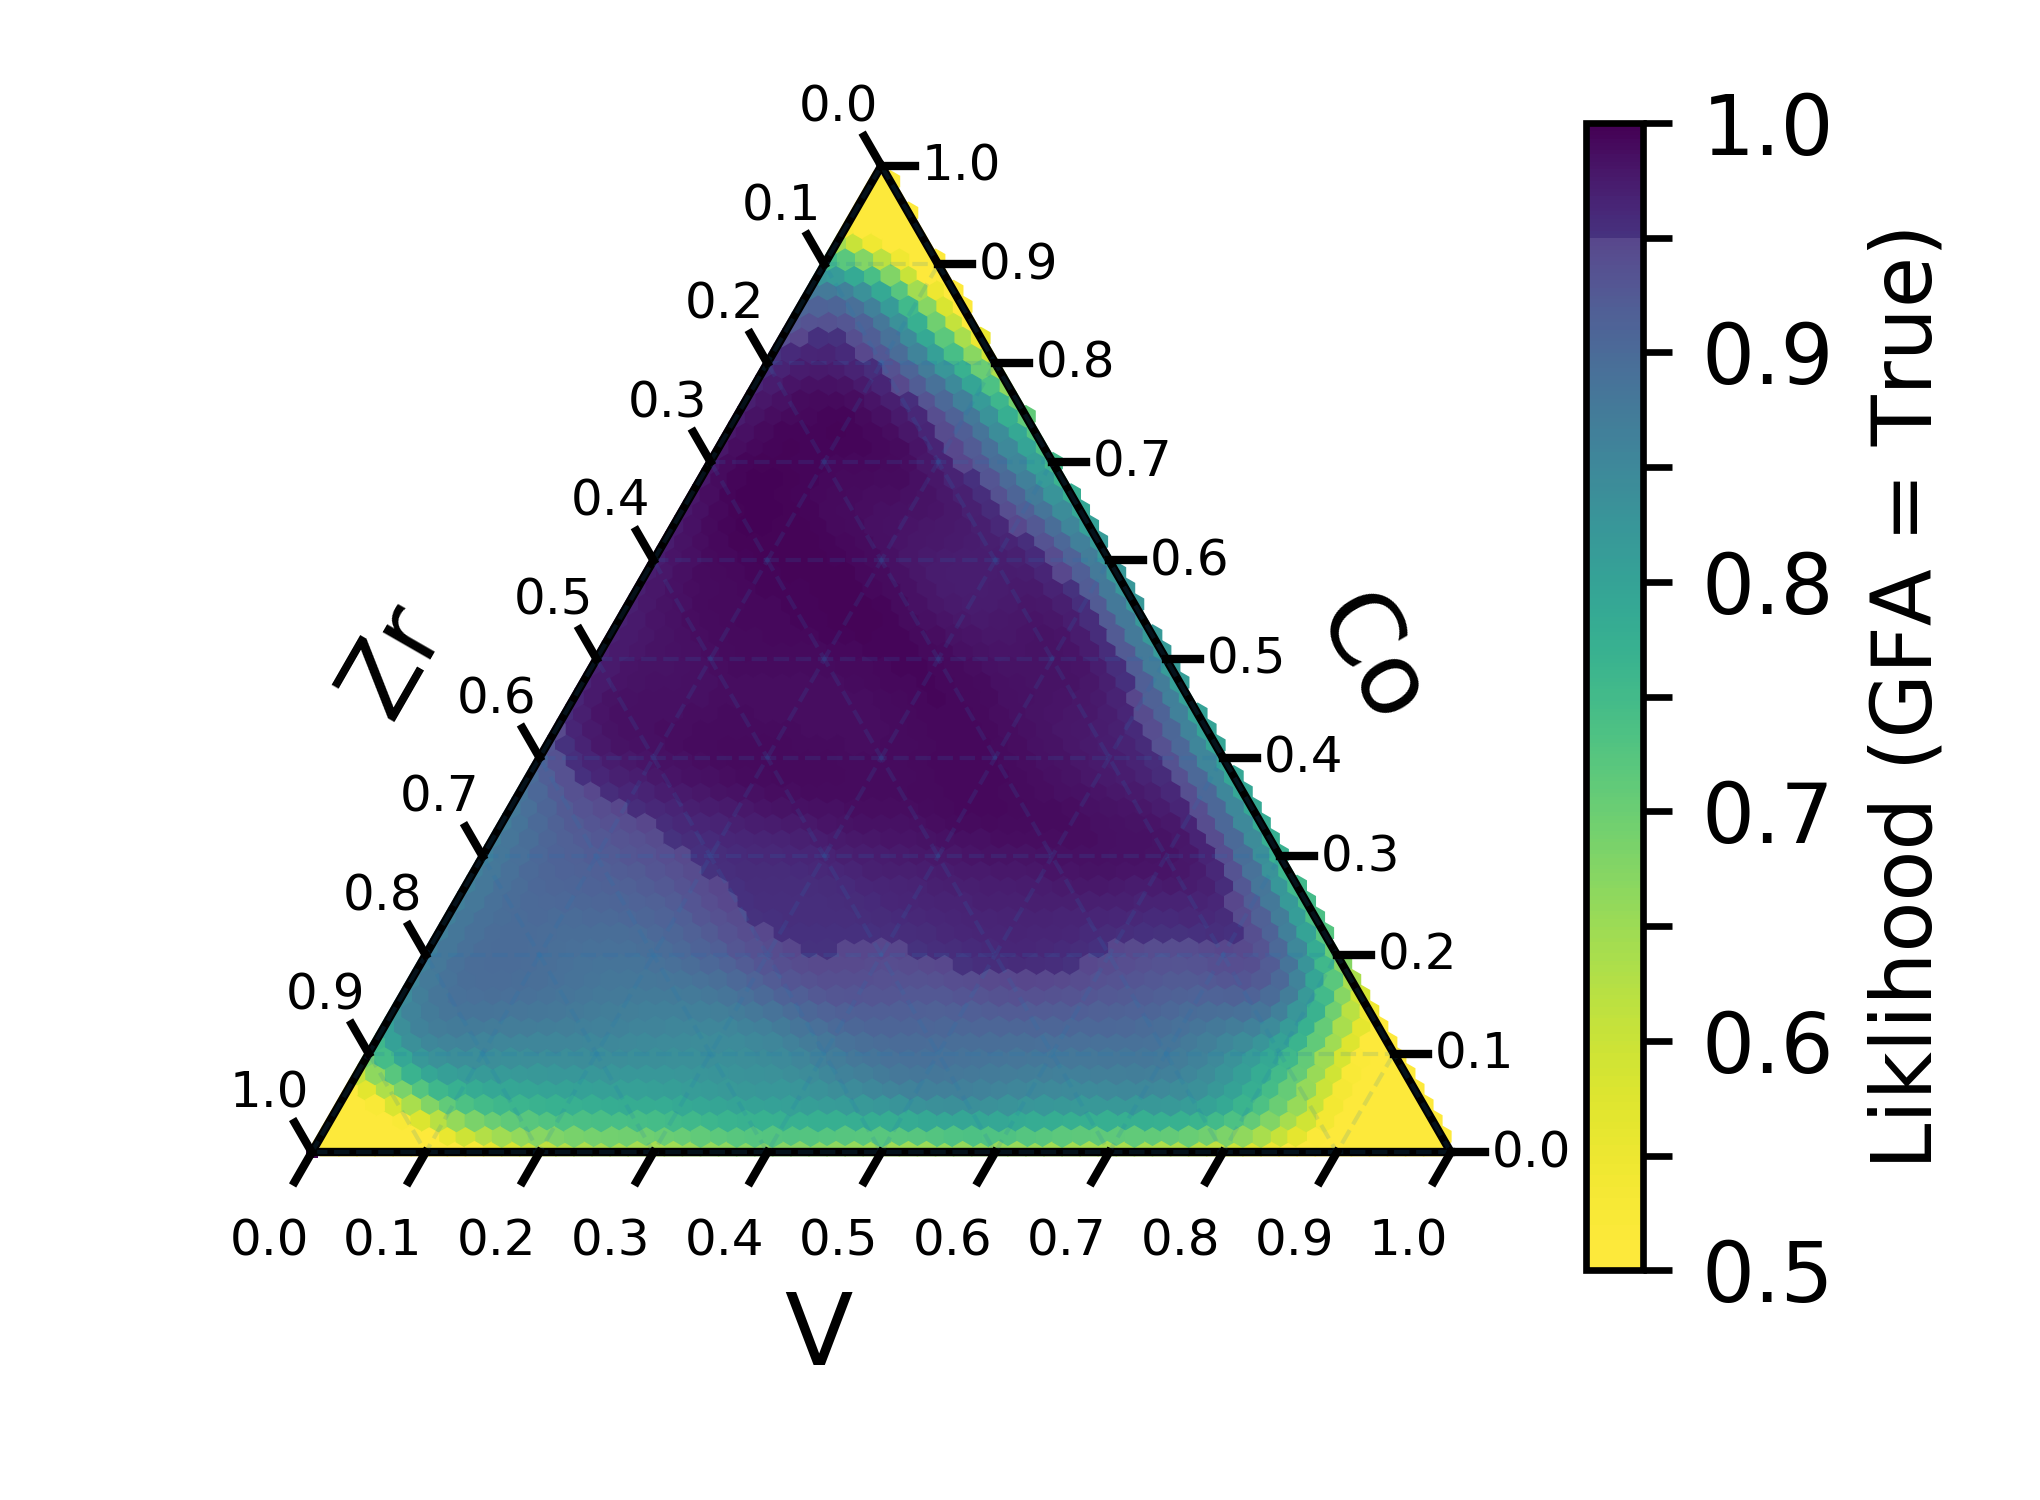
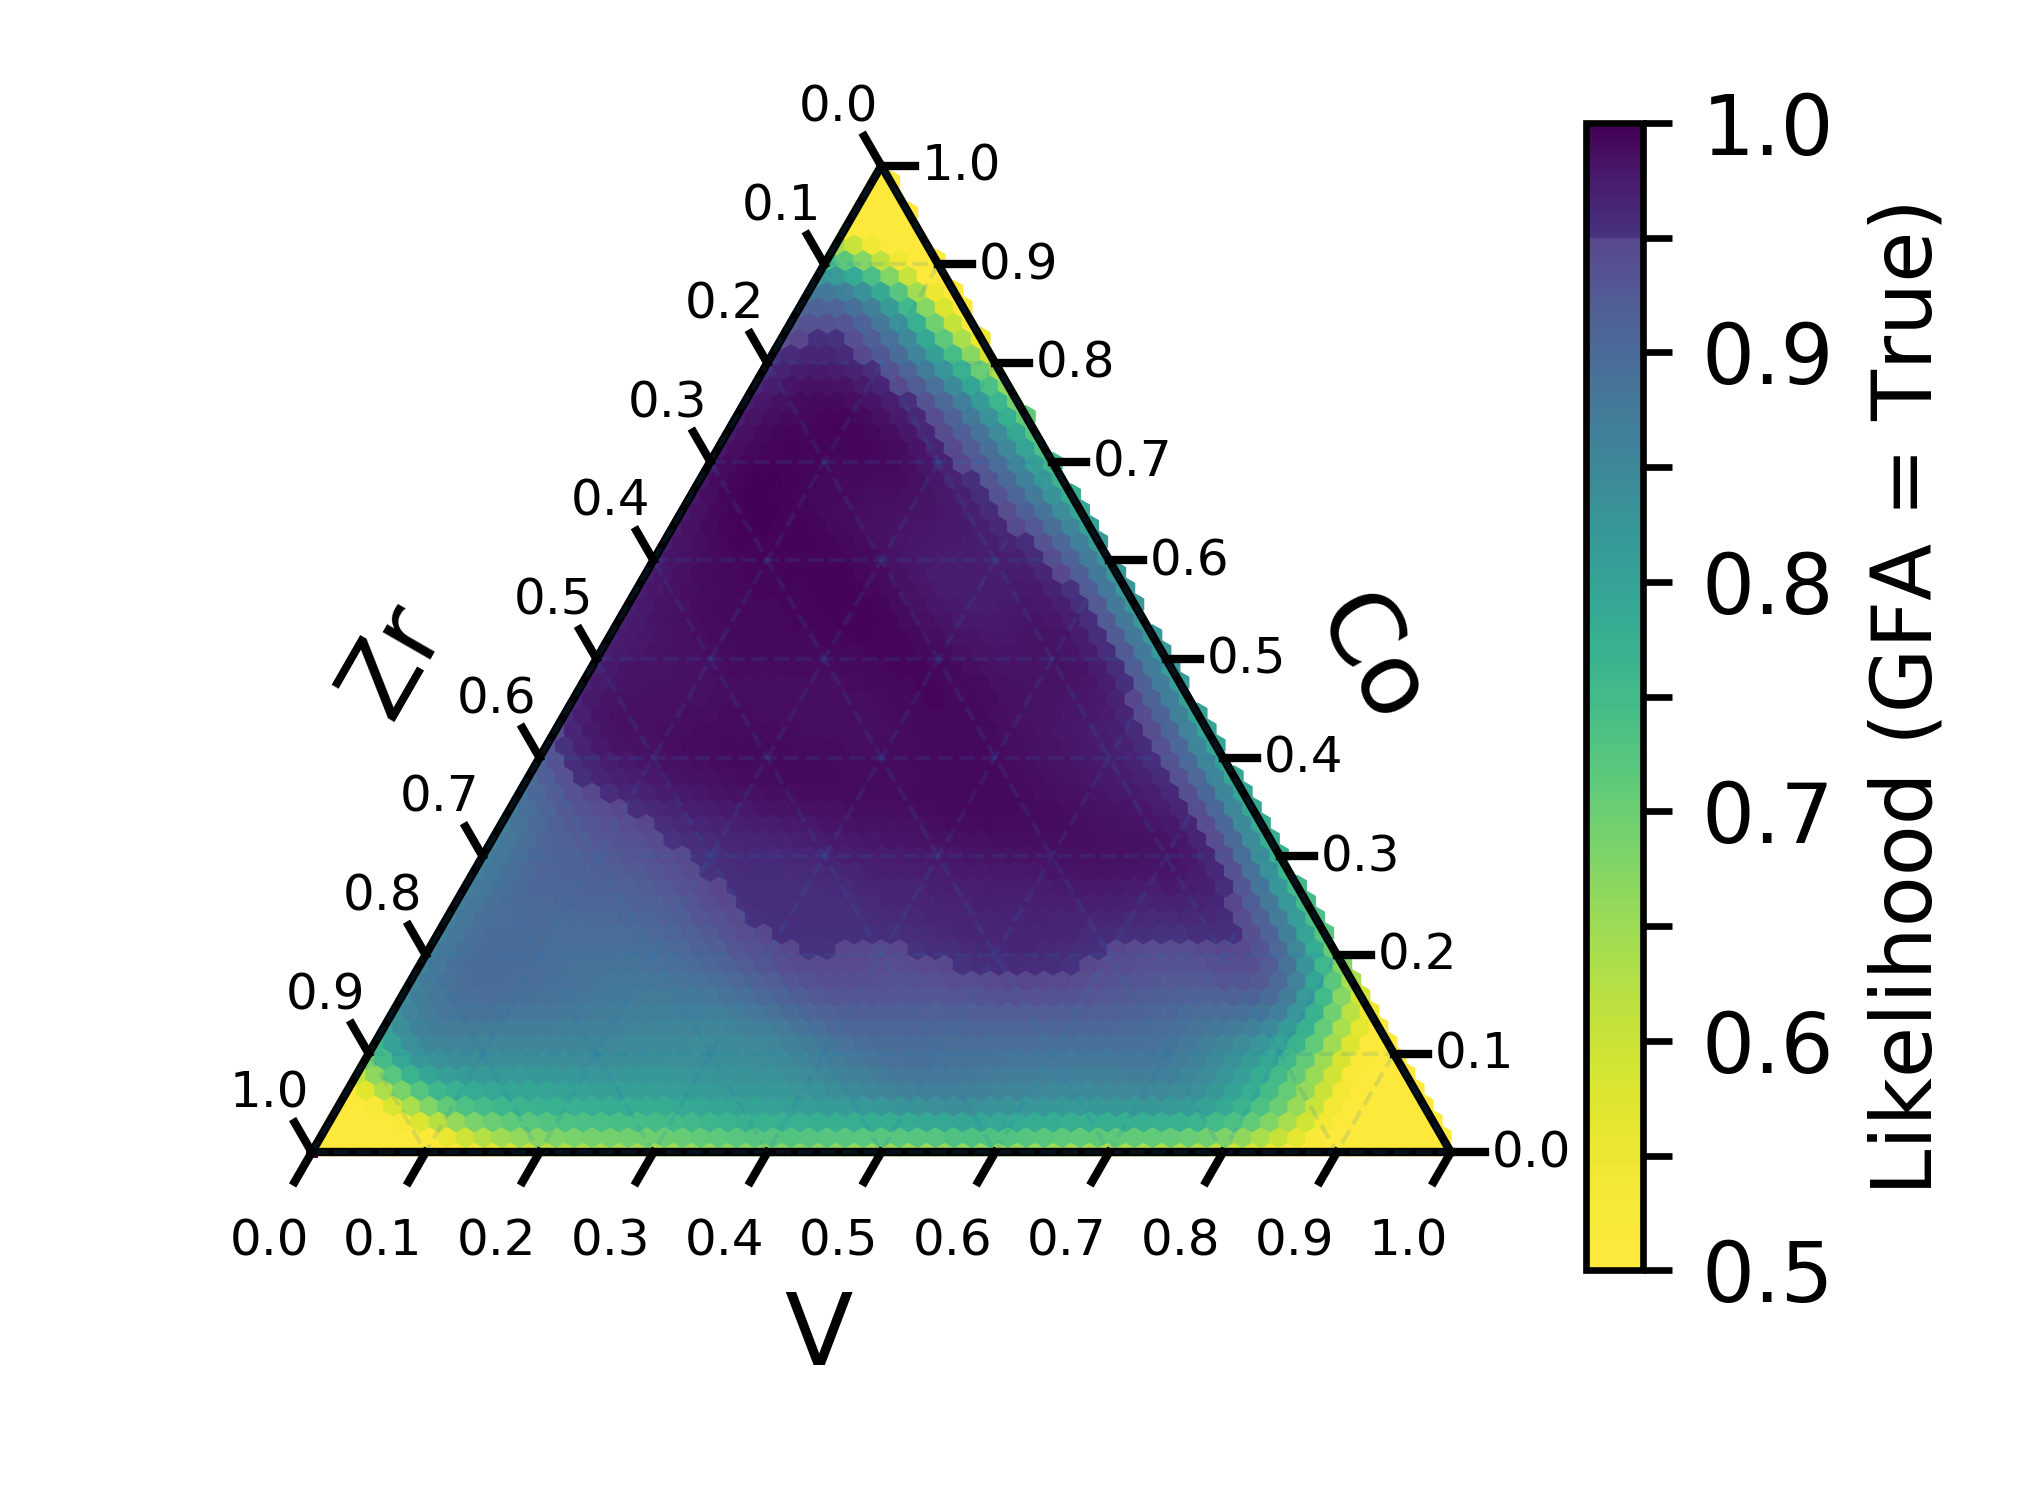
Fixed spelling error

Changed region(s): [[0.8956, 0.1227, 0.9574, 0.7973]]

diff --git a/machine-learning/figures/figure5a.py b/machine-learning/figures/figure5a.py
@@ -36,4 +36,4 @@ probability = data['probability']
 ternary_data = interpolate_probabilities(Fe, Nb, Ti, probability)
 interpolation_ternary(ternary_data, tertitle='',  labelNames=('Fe', 'Nb', 'Ti'), scale=100,
                        sv=True, svpth=save_path, svflnm='Figure5a.png',
-                       cbl='Liklihood (GFA = True)', vmin = 0.5, vmax = 1, cmap=make_cmap(), cb=True, style='h')
+                       cbl='Likelihood (GFA = True)', vmin = 0.5, vmax = 1, cmap=make_cmap(), cb=True, style='h')

diff --git a/machine-learning/figures/figure5b.py b/machine-learning/figures/figure5b.py
@@ -33,4 +33,4 @@ probability = data['probability']
 ternary_data = interpolate_probabilities(Fe, Nb, Ti, probability)
 interpolation_ternary(ternary_data, tertitle='',  labelNames=('Fe', 'Nb', 'Ti'), scale=100,
                        sv=True, svpth=save_path, svflnm='Figure5b.png',
-                       cbl='Liklihood (GFA = True)', vmin = 0.5, vmax = 1, cmap=make_cmap(), cb=True, style='h')
+                       cbl='Likelihood (GFA = True)', vmin = 0.5, vmax = 1, cmap=make_cmap(), cb=True, style='h')

diff --git a/machine-learning/figures/figure2c1.py b/machine-learning/figures/figure2c1.py
@@ -34,4 +34,4 @@ probability = data['probability']
 ternary_data = interpolate_probabilities(Co, V, Zr, probability)
 interpolation_ternary(ternary_data, tertitle='',  labelNames=('Co', 'V', 'Zr'), scale=100,
                        sv=True, svpth=save_path, svflnm='Figure2c1.png',
-                       cbl='Liklihood (GFA = True)', vmin = 0.5, vmax = 1, cmap=make_cmap(), cb=True, style='h')
+                       cbl='Likelihood (GFA = True)', vmin = 0.5, vmax = 1, cmap=make_cmap(), cb=True, style='h')

diff --git a/machine-learning/figures/figure4b.py b/machine-learning/figures/figure4b.py
@@ -36,4 +36,4 @@ probability = data['probability']
 ternary_data = interpolate_probabilities(Co, V, Zr, probability)
 interpolation_ternary(ternary_data, tertitle='',  labelNames=('Co', 'V', 'Zr'), scale=100,
                        sv=True, svpth=save_path, svflnm='Figure4b.png',
-                       cbl='Liklihood (GFA = True)', vmin = 0.5, vmax = 1, cmap=make_cmap(), cb=True, style='h')
+                       cbl='Likelihood (GFA = True)', vmin = 0.5, vmax = 1, cmap=make_cmap(), cb=True, style='h')

diff --git a/machine-learning/figures/figure4c.py b/machine-learning/figures/figure4c.py
@@ -36,4 +36,4 @@ probability = data['probability']
 ternary_data = interpolate_probabilities(Co, V, Zr, probability)
 interpolation_ternary(ternary_data, tertitle='',  labelNames=('Co', 'V', 'Zr'), scale=100,
                        sv=True, svpth=save_path, svflnm='Figure4c.png',
-                       cbl='Liklihood (GFA = True)', vmin = 0.5, vmax = 1, cmap=make_cmap(), cb=True, style='h')
+                       cbl='Likelihood (GFA = True)', vmin = 0.5, vmax = 1, cmap=make_cmap(), cb=True, style='h')
